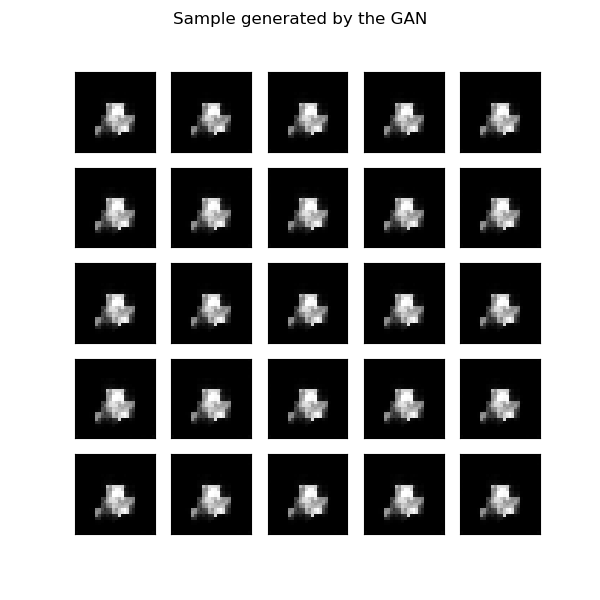
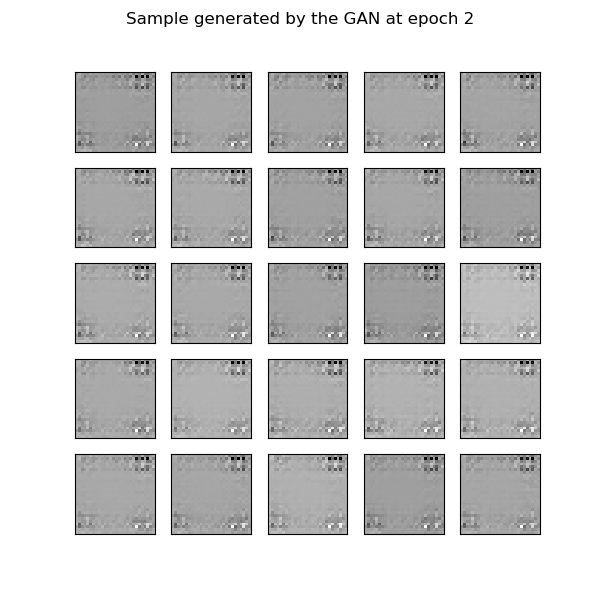
Updates for better lisibility

diff --git a/WGAN-Improved.py b/WGAN-Improved.py
@@ -10,6 +10,7 @@ import pickle
 import matplotlib.pyplot as plt
 import numpy as np
 import os
+import shutil
 from sklearn.utils import shuffle
 from keras.datasets.mnist import load_data
 
@@ -49,7 +50,7 @@ def leaky_relu(x, alpha=0.2):
     return tf.maximum(tf.minimum(0.0, alpha * x), x)
 
 
-class ClipConstraint(tf.keras.constraints.Constraint):
+class ClipConstraint(tf.compat.v1.keras.constraints.Constraint):
     def __init__(self, clip_value):
         self.clip_value = clip_value
 
@@ -67,41 +68,50 @@ class Generator():
 
     def __call__(self, input_noise):
         init = tf.compat.v1.random_normal_initializer(stddev=0.02)
-        regul = tf.contrib.layers.l2_regularizer(2.5e-5)
+        regul = tf.compat.v2.keras.regularizers.L1L2(l2=2.5e-5)
+
         with tf.compat.v1.variable_scope(self.name):
             bs = tf.shape(input_noise)[0]
-            fc1 = tf.contrib.layers.fully_connected(
-                input_noise, 1024,
-                weights_initializer=init,
-                weights_regularizer=regul,
-                activation_fn=tf.identity
-            )
-            fc1 = tf.contrib.layers.batch_norm(fc1)
+            fc1 = tf.compat.v1.keras.layers.Dense(
+                1024,
+                kernel_initializer=init,
+                kernel_regularizer=regul
+            )(input_noise)
+            fc1 = tf.compat.v1.keras.layers.BatchNormalization()(fc1)
             fc1 = tf.nn.relu(fc1)
-            fc2 = tf.contrib.layers.fully_connected(
-                fc1, 7 * 7 * 128,
-                weights_initializer=init,
-                weights_regularizer=regul,
-                activation_fn=tf.identity
-            )
+            fc2 = tf.compat.v1.keras.layers.Dense(
+                7 * 7 * 128,
+                kernel_initializer=init,
+                kernel_regularizer=regul
+            )(fc1)
             fc2 = tf.reshape(fc2, tf.stack([bs, 7, 7, 128]))
-            fc2 = tf.contrib.layers.batch_norm(fc2)
+            fc2 = tf.compat.v1.keras.layers.BatchNormalization()(fc2)
             fc2 = tf.nn.relu(fc2)
-            conv1 = tf.contrib.layers.convolution2d_transpose(
-                fc2, 64, [4, 4], [2, 2],
-                weights_initializer=init,
-                weights_regularizer=regul,
-                activation_fn=tf.identity
-            )
-            conv1 = tf.contrib.layers.batch_norm(conv1)
+            conv1 = tf.compat.v1.keras.layers.Conv2DTranspose(
+                128, [4, 4], [2, 2],
+                kernel_initializer=init,
+                kernel_regularizer=regul,
+                padding='same'
+            )(fc2)
+            conv1 = tf.compat.v1.keras.layers.BatchNormalization()(conv1)
             conv1 = tf.nn.relu(conv1)
-            conv2 = tf.contrib.layers.convolution2d_transpose(
-                conv1, 1, [4, 4], [2, 2],
-                weights_initializer=init,
-                weights_regularizer=regul,
-                activation_fn=tf.sigmoid
-            )
-            return conv2
+            conv2 = tf.compat.v1.keras.layers.Conv2DTranspose(
+                64, [4, 4], [2, 2],
+                kernel_initializer=init,
+                kernel_regularizer=regul,
+                padding='same'
+
+            )(conv1)
+            conv2 = tf.compat.v1.keras.layers.BatchNormalization()(conv2)
+            conv2 = tf.nn.relu(conv2)
+            conv3 = tf.compat.v1.keras.layers.Conv2D(
+                1, [4, 4],
+                kernel_initializer=init,
+                kernel_regularizer=regul,
+                padding='same'
+
+            )(conv2)
+            return conv3
 
     def vars(self):
         return [var for var in tf.compat.v1.global_variables() if self.name in var.name]
@@ -116,28 +126,23 @@ class Discriminator():
         with tf.compat.v1.variable_scope(self.name) as vs:
             if reuse:
                 vs.reuse_variables()
-            bs = tf.shape(input_image)[0]
-            x = tf.reshape(input_image, [bs, 28, 28, 1])
-            conv1 = tf.contrib.layers.convolution2d(
-                x, 64, [4, 4], [2, 2],
-                weights_initializer=init,
-                activation_fn=tf.identity
-            )
+            conv1 = tf.compat.v1.keras.layers.Conv2D(
+                64, [4, 4], [2, 2],
+                kernel_initializer=init
+            )(input_image)
             conv1 = leaky_relu(conv1)
-            conv2 = tf.contrib.layers.convolution2d(
-                conv1, 128, [4, 4], [2, 2],
-                weights_initializer=init,
-                activation_fn=tf.identity
-            )
+            conv2 = tf.compat.v1.keras.layers.Conv2D(
+                128, [4, 4], [2, 2],
+                kernel_initializer=init
+            )(conv1)
             conv2 = leaky_relu(conv2)
-            conv2 = tf.contrib.layers.flatten(conv2)
-            fc1 = tf.contrib.layers.fully_connected(
-                conv2, 1024,
-                weights_initializer=init,
-                activation_fn=tf.identity
-            )
+            conv2 = tf.compat.v1.keras.layers.Flatten()(conv2)
+            fc1 = tf.compat.v1.keras.layers.Dense(
+                1024,
+                kernel_initializer=init
+            )(conv2)
             fc1 = leaky_relu(fc1)
-            out = tf.contrib.layers.fully_connected(fc1, 1, activation_fn=tf.identity)
+            out = tf.compat.v1.keras.layers.Dense(1)(fc1)
             return out
 
     def vars(self):
@@ -146,7 +151,7 @@ class Discriminator():
 
 class WGAN():
 
-    def __init__(self, data, check_grad=False, opt='RMSProp', clip=False, grad_penalty=True):
+    def __init__(self, data, check_grad=False, opt='RMSProp', clip=False, do_grad_penalty=True, reset_model=False):
 
         tf.compat.v1.reset_default_graph()
 
@@ -154,8 +159,18 @@ class WGAN():
         g_net = Generator()
         d_net = Discriminator()
         self.check_grad = check_grad
+        self.do_grad_penalty = do_grad_penalty
         self.opt = opt
         self.clip = clip
+
+        if reset_model:
+            list_files = os.listdir('models/')
+            if(len(list_files) == 0):
+                print('No model found, no reinitialization done...')
+            else:
+                for i in list_files:
+                    os.remove('models/'+i)
+                print('Model reinitialized...')
 
         self.X = tf.compat.v1.placeholder(tf.float32, [None, HEIGHT, WIDTH, CHANNEL])
         self.Z = tf.compat.v1.placeholder(tf.float32, [None, Z_DIM])
@@ -164,18 +179,23 @@ class WGAN():
         real_logits = d_net(self.X)
         fake_logits = d_net(self.generator, reuse=True)
 
-        if grad_penalty:
+        self.disc_loss_real = tf.reduce_mean(real_logits)
+        self.disc_loss_fake = -tf.reduce_mean(fake_logits)
+        self.gen_loss = tf.reduce_mean(fake_logits)
+
+        if self.do_grad_penalty:
             epsilon = tf.compat.v1.random_uniform([], 0.0, 1.0)
             x_hat = epsilon * self.X + (1 - epsilon) * self.generator
             d_hat = d_net(x_hat, reuse=True)
-            gradient_penalty = tf.gradients(d_hat, x_hat)[0]
-            gradient_penalty = tf.sqrt(tf.reduce_sum(tf.square(gradient_penalty), axis=1))
-            gradient_penalty = tf.reduce_mean(tf.square(gradient_penalty - 1.0) * 10)
-            self.disc_loss = tf.reduce_mean(real_logits) - tf.reduce_mean(fake_logits) + gradient_penalty
+            gradients = tf.gradients(d_hat, x_hat)
+            gradient = gradients[0]
+            grad_square = tf.compat.v1.reshape(tf.square(gradient), [-1, 28*28])
+            grad_sum = tf.reduce_sum(grad_square, axis=1)
+            gradient_norm = tf.sqrt(grad_sum)
+            self.gradient_penalty = tf.reduce_mean(tf.square(gradient_norm - 1.0) * 10)
+            self.disc_loss = self.disc_loss_fake + self.disc_loss_real + self.gradient_penalty
         else:
-            self.disc_loss = tf.reduce_mean(real_logits) - tf.reduce_mean(fake_logits)
-
-        self.gen_loss = tf.reduce_mean(fake_logits)
+            self.disc_loss = self.disc_loss_fake + self.disc_loss_real
 
         with tf.compat.v1.control_dependencies(tf.compat.v1.get_collection(tf.compat.v1.GraphKeys.UPDATE_OPS)):
             if self.opt == 'RMSProp':
@@ -198,71 +218,85 @@ class WGAN():
         self.sess = tf.compat.v1.Session(config=tf.compat.v1.ConfigProto(gpu_options=gpu_options))
 
     def train(self, epochs=100, batch_size=64):
-        d_losses = []
-        g_losses = []
+        self.d_losses_real = []
+        self.d_losses_fake = []
+        self.d_losses = []
+        if self.do_grad_penalty:
+            self.grad_penalties = []
+        self.g_losses = []
         n_critics = 5
         self.sess.run(tf.compat.v1.global_variables_initializer())
         self.sess.run(tf.compat.v1.local_variables_initializer())
-        saver = tf.train.Saver()
+        saver = tf.compat.v1.train.Saver()
         if 'model.ckpt.meta' in os.listdir('models/'):
             saver.restore(self.sess, "models/model.ckpt")
             print("Model restored...")
         else:
             print("No saved model found!")
         print('Start Training...')
-        batch = 0
-        epoch = 1
-        data_lenght = len(self.real_data)
-        total_batches = int(data_lenght//batch_size)
-        end = False
-        print('--------------------Epoch no. %d---------------------' % epoch)
-        while 1:
-            for d_iter in range(n_critics):
-                if (batch+1)*batch_size <= data_lenght-1:
-                    real_batch = self.real_data[batch*batch_size:(batch+1)*batch_size]
-                else:
-                    epoch += 1
-                    if epoch > epochs:
-                        end = True
-                        break
-                    self.sample_images(batch, 5, 5)
-                    print('--------------------Epoch no. %d---------------------' % epoch)
-                    batch = 0
-                    self.real_data = shuffle(self.real_data)
-                    real_batch = self.real_data[batch*batch_size:(batch+1)*batch_size]
-                batch += 1
+        self.total_mini_batch_of_batches = int(len(self.real_data)//(batch_size*n_critics))
+        for epoch in range(epochs):
+            print('--------------------Epoch no. %d---------------------' % epoch)
+            self.real_data = shuffle(self.real_data)
+            for mb in range(self.total_mini_batch_of_batches):
+                mini_batch_of_real_batches = self.real_data[mb*batch_size:(mb+n_critics)*batch_size]
+                for d_iter in range(n_critics):
+                    real_batch = mini_batch_of_real_batches[d_iter*batch_size:(d_iter+1)*batch_size]
+                    noise_batch = np.random.normal(0, 1, (batch_size, Z_DIM))
+                    if self.clip:
+                        self.sess.run(self.disc_clip)
+                    self.sess.run(self.disc_step, feed_dict={self.X: real_batch, self.Z: noise_batch})
+
                 noise_batch = np.random.normal(0, 1, (batch_size, Z_DIM))
-                if self.clip:
-                    self.sess.run(self.disc_clip)
-                self.sess.run(self.disc_step, feed_dict={self.X: real_batch, self.Z: noise_batch})
-            if end:
-                break
-            noise_batch = np.random.normal(0, 1, (batch_size, Z_DIM))
-            self.sess.run(self.gen_step, feed_dict={self.Z: noise_batch})
+                self.sess.run(self.gen_step, feed_dict={self.Z: noise_batch})
 
-            g_loss = self.sess.run(self.gen_loss, feed_dict={self.Z: noise_batch})
-            d_loss = self.sess.run(self.disc_loss, feed_dict={self.X: real_batch, self.Z: noise_batch})
-            d_losses += [d_loss]
-            g_losses += [g_loss]
-
-            if self.check_grad:
-                g_grad = self.sess.run(self.gen_gradients_norm, feed_dict={self.Z: noise_batch})
-                d_grad = self.sess.run(self.disc_gradients_norm, feed_dict={self.X: real_batch, self.Z: noise_batch})
-                print('Batch no. %d/%d | dl = %.3f, gl = %.3f | dgrad = %.3f, ggrad = %.3f' % (batch, total_batches, d_loss, g_loss, d_grad, g_grad))
-            else:
-                print('Batch no. %d/%d | dl = %.3f, gl = %.3f' % (batch, total_batches, d_loss, g_loss))
+                self.follow_evolution(epoch, mb, real_batch, noise_batch)
+            self.sample_images(epoch, 5, 5)
 
         saver.save(self.sess, "models/model.ckpt")
         print('Model saved...')
-        self.plot_losses(d_losses, g_losses)
+        self.plot_losses()
 
-    def plot_losses(self, d_losses, g_losses):
+    def follow_evolution(self, epoch, mb, real_batch, noise_batch):
+        to_print = 'E.%d | B.%d/%d' % (epoch, mb, self.total_mini_batch_of_batches)
+        if self.do_grad_penalty:
+            d_loss_real, d_loss_fake, g_penalty = self.sess.run([self.disc_loss_real, self.disc_loss_fake,
+                                                                 self.gradient_penalty], feed_dict={self.X: real_batch, self.Z: noise_batch})
+            d_loss = d_loss_real + d_loss_fake + g_penalty
+            self.grad_penalties += [g_penalty]
+            to_print += ' | dlr = %.3f, dlr = %.3f, dl = %.3f, gp = %.3f' % (d_loss_real, d_loss_fake, d_loss, g_penalty)
+        else:
+            d_loss_real, d_loss_fake = self.sess.run([self.disc_loss_real, self.disc_loss_fake],
+                                                     feed_dict={self.X: real_batch, self.Z: noise_batch})
+            d_loss = d_loss_real + d_loss_fake
+            to_print += ' | dlr = %.3f, dlr = %.3f, dl = %.3f' % (d_loss_real, d_loss_fake, d_loss)
+
+        g_loss = self.sess.run(self.gen_loss, feed_dict={self.Z: noise_batch})
+        to_print += ' | gl = %.3f' % g_loss
+
+        if self.check_grad:
+            g_grad = self.sess.run(self.gen_gradients_norm, feed_dict={self.Z: noise_batch})
+            d_grad = self.sess.run(self.disc_gradients_norm, feed_dict={self.X: real_batch, self.Z: noise_batch})
+            to_print += ' | dgrad = %.3f, ggrad = %.3f' % (d_grad, g_grad)
+
+        self.d_losses_real += [d_loss_real]
+        self.d_losses_fake += [d_loss_fake]
+        self.d_losses += [d_loss]
+        self.g_losses += [g_loss]
+
+        print(to_print)
+
+    def plot_losses(self):
         plt.figure()
-        plt.plot(d_losses)
-        plt.plot(g_losses)
+        plt.plot(self.d_losses_real)
+        plt.plot(self.d_losses_fake)
+        plt.plot(self.g_losses)
+        if self.do_grad_penalty:
+            plt.plot(self.grad_penalties)
+        plt.title('Loss evolution')
         plt.show()
 
-    def sample_images(self, batch, nrows, ncols):
+    def sample_images(self, epoch, nrows, ncols):
         fig, ax = plt.subplots(nrows=nrows, ncols=ncols, figsize=(6, 6), sharex=True, sharey=True)
         noise = np.random.normal(0, 1, (nrows*ncols, Z_DIM))
         gen_imgs = self.sess.run(self.generator, feed_dict={self.Z: noise})
@@ -273,10 +307,10 @@ class WGAN():
                 ax[i][j].imshow(img, cmap='gray')
                 ax[i][j].get_xaxis().set_visible(False)
                 ax[i][j].get_yaxis().set_visible(False)
-        fig.suptitle('Sample generated by the GAN')
+        fig.suptitle('Sample generated by the GAN at epoch %d' % epoch)
         fig.savefig('generated/uptodate.png')
 
 
 if __name__ == '__main__':
-    gan_test = WGAN(load_database(), check_grad=False, opt='Adam')
-    gan_test.train(epochs=2, batch_size=256)
+    gan_test = WGAN(load_database(), check_grad=True, clip=False, opt='Adam', reset_model=True, do_grad_penalty=True)
+    gan_test.train(epochs=1, batch_size=64)
